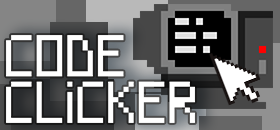
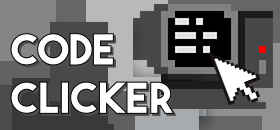
Visual changes

diff --git a/Client/src/app/game-screen/game-title/game-title.component.ts b/Client/src/app/game-screen/game-title/game-title.component.ts
@@ -1,6 +1,7 @@
 import { Component, OnInit, Input } from '@angular/core';
 import { Game } from 'src/app/games.service';
 import { GameMetadataService } from 'src/app/game-metadata.service';
+import { Observable } from 'rxjs';
 
 @Component({
   selector: 'gs-game-title',
@@ -10,16 +11,22 @@ import { GameMetadataService } from 'src/app/game-metadata.service';
 export class GameTitleComponent implements OnInit {
 
   @Input() game: Game;
+  public credits$: Observable<string>;
 
   constructor(
     private gameMetadataService: GameMetadataService
   ) { }
 
   ngOnInit(): void {
+    this.credits$ = this.gameMetadataService.getCredits(this.game);
   }
 
-  public backgroundUrl(){
+   public backgroundUrl(){
     return this.gameMetadataService.getBackgroundUrl(this.game);
+  }
+
+  public logoUrl(){
+    return this.gameMetadataService.getLogoUrl(this.game);
   }
 
 }

diff --git a/Client/src/app/game-screen/game-title/game-title.component.scss b/Client/src/app/game-screen/game-title/game-title.component.scss
@@ -1,5 +1,34 @@
-h1 {
-    padding: 1rem;
-    color:white;
+#banner {
+    margin: 1rem 0;
+    height: 120px;
+
+    display: flex;
+    flex-direction: column;
+    align-items: center;
+}
+
+header {
+    color: white;
+    margin-top: 0.8rem;
     text-align: center;
+}
+
+#inside {
+    flex-basis: 100%;
+
+    span {
+        display: inline-block;
+        height: 100%;
+        vertical-align: middle;
+    }
+
+    img {
+        vertical-align: middle;
+    }
+}
+
+@media only screen and (max-width: 767px) {
+    header {
+        font-size: 90%;
+    }
 }

diff --git a/Client/src/app/game-screen/game-screen/game-screen.component.ts b/Client/src/app/game-screen/game-screen/game-screen.component.ts
@@ -13,7 +13,6 @@ export class GameScreenComponent implements OnInit {
 
   public game$: Observable<Game>;
   public description$: Observable<string>;
-  public credits$: Observable<string>;
 
   constructor(
     private route: ActivatedRoute,
@@ -29,7 +28,6 @@ export class GameScreenComponent implements OnInit {
 
         this.game$.subscribe(game => {
           this.description$ = this.gameMetadataService.getDescription(game);
-          this.credits$ = this.gameMetadataService.getCredits(game);
         });
       }
     );

diff --git a/Client/src/app/game-metadata.service.ts b/Client/src/app/game-metadata.service.ts
@@ -10,7 +10,7 @@ import { HttpClient } from '@angular/common/http';
 @Injectable({
   providedIn: 'root'
 })
-export class GameMetadataService {
+export class GameMetadataService {  
   constructor(
     private http: HttpClient
   ) { }
@@ -39,6 +39,10 @@ export class GameMetadataService {
 
   public getScreenshotUrl(game: Game): string {
     return GamesService.getGameUrl(game) + 'meta/screenshot.jpg'
+  }
+
+  getLogoUrl(game: Game) {
+    return GamesService.getGameUrl(game) + 'meta/logo.png'
   }
 
 }

diff --git a/Client/src/app/game-screen/game-screen/game-screen.component.html b/Client/src/app/game-screen/game-screen/game-screen.component.html
@@ -3,10 +3,6 @@
     <div id="container">
         <gs-screenshot [game]="game"></gs-screenshot>
         <div>
-            <div id="credits">
-                Por
-                <span [innerHTML]="credits$ | async"></span>
-            </div>
             <div id="contents">
                 <p [innerHTML]="description$ | async"></p>
                 <gs-menu [game]="game"></gs-menu>

diff --git a/Client/src/app/game-screen/game-title/game-title.component.html b/Client/src/app/game-screen/game-title/game-title.component.html
@@ -1,1 +1,13 @@
-<h1 [style.background-image]="'url('+backgroundUrl()+')'">{{game.name}}</h1>
+<div
+    id="banner"
+    [style.background-image]="'url('+backgroundUrl()+')'"
+>
+    <header [innerHTML]="credits$ | async"></header>
+    <div id="inside">
+        <span></span>
+        <img
+            [src]="logoUrl()"
+            [alt]="game.name"
+        >
+    </div>
+</div>
